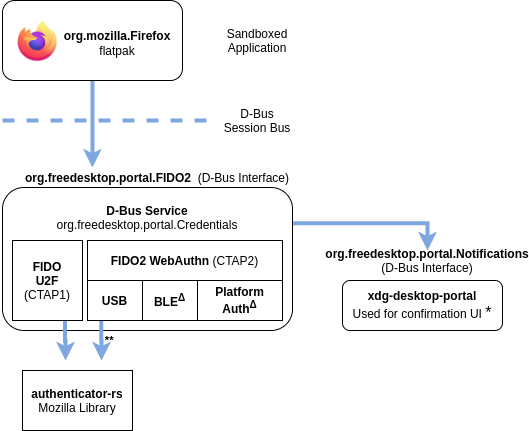
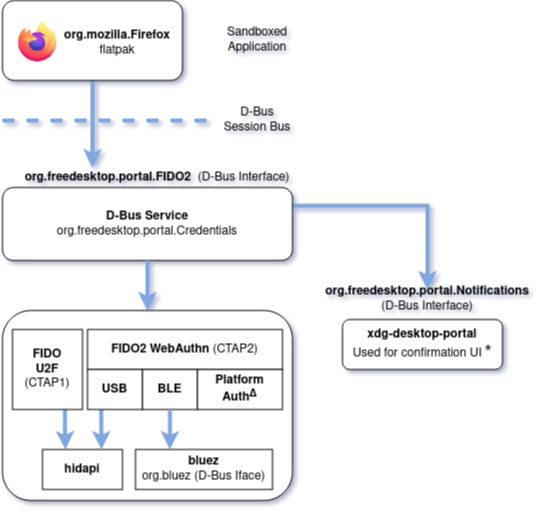
Updated README

Changed region(s): [[0.0, 0.0, 0.9981, 1.0], [0.4234, 0.0302, 0.5444, 0.1206]]

diff --git a/README.md b/README.md
@@ -2,21 +2,62 @@
 
 ![](https://media.giphy.com/media/Jo6ye8NvYF2Z2Odb5b/giphy.gif)
 
-This is a standalone service which aims to offer FIDO2 functionality (FIDO U2F, and WebAuthn) over a [D-Bus Portal interface][xdg-portal].
+This is a standalone service which aims to offer FIDO2 platform functionality (FIDO U2F, and WebAuthn) on Linux, over a [D-Bus Portal interface][xdg-portal].
 
-Similarly to [xdg-desktop-portal][xdg-desktop-portal] and [xdg-documents-portal][xdg-documents-portal], the service is intended to be accessed over a proposed D-Bus _portal_: [org.freedesktop.portal.Credentials][xml-spec].
+The project is composed of multiple crates:
 
-## High-level Architecture
+- **libwebauthn**: Linux native implementation of FIDO2 and FIDO U2F Platform APIs.
+  - Fully written in Rust.
+  - No longer relies on Mozilla's [authenticator-rs][authenticator-rs].
+  - Supporting multiple transports (currently USB HID and BLE). The library is designed to have pluggable transport implementations, making it easy to add transport backends (planned: NFC, caBLEv2).
+- **xdg-credentials-portal**: API proposal and reference implementation for a service which will expose FIDO2 and FIDO U2F Platform APIs via a D-Bus interface, for desktop applications to use - including conteinerized apps such as Flatpaks.
+  - Similarly to [xdg-desktop-portal][xdg-desktop-portal] and [xdg-documents-portal][xdg-documents-portal], the service is intended to be accessed over a proposed D-Bus _portal_: [org.freedesktop.portal.Credentials][xml-spec].
+
+## libwebauthn
+
+### Transports
+
+|                      | USB (HID)                 | Bluetooth Low Energy (BLE) | NFC                   | TPM 2.0 (Platform)    |
+| -------------------- | ------------------------- | -------------------------- | --------------------- | --------------------- |
+| **FIDO U2F**         | 🟢 Supported (via hidapi) | 🟢 Supported (via bluez)   | 🟠 Planned ([#5](#5)) | 🟠 Planned ([#4][#4]) |
+| **WebAuthn (FIDO2)** | 🟢 Supported (via hidapi) | 🟢 Supported (via bluez)   | 🟠 Planned ([#5](#5)) | 🟠 Planned ([#4][#4]) |
+
+### Platform functionality
+
+- FIDO U2F
+  - 🟢 Implemented: Registration (U2F_REGISTER)
+  - 🟢 Implemented: Authentication (U2F_AUTHENTICATE)
+  - 🟢 Implemented: Version (U2F_VERSION)
+- FIDO2
+  - 🟢 Implemented: Create credential
+  - 🟢 Implemented: Verify assertion
+  - 🟠 Planned ([#17][#17]): Resident keys
+  - 🟠 Planned ([#18][#18]): Biometric authentication
+- FIDO2 to FIDO U2F downgrade
+  - 🟢 Implemented: Basic functionality
+  - 🟠 Planned ([#9][#9]): Support for excludeList and pre-flight requests
+- PIN/UV Protocols
+  - 🟢 Implemented: PIN/UV Auth Protocol One
+  - 🟠 Planned ([#12][#12]): PIN/UV Auth Protocol Two
+- PIN/UV Operations
+  - 🟢 Implemented: GetPinToken
+  * 🟠 Planned ([#19][#19]): GetPinUvAuthTokenUsingUvWithPermissions
+  * 🟠 Planned ([#20][#20]): GetPinUvAuthTokenUsingPinWithPermissions
+
+## xdg-credential-platform
+
+This is a very early stage idea, no proposed spec exists yet.
+
+Here is an high-level architecture diagram of the proposed service and how it will interact with its clients:
 
 ![High-Level Architecture](./images/diagram-1.png)
 
 Footnotes:
 
-- **\***: Better alternatives for UI should be considered
-- **\*\***: CTAP2 support in authenticator-rs is under active development
+- **\***: Better alternatives for UI should be considered, e.g. native UI implementations via xdg-credentials-portal-{gnome, kde}.
 - **Δ**: See Roadmap section below
 
-## Motivation
+### Motivation
 
 - **Sandboxed Browsers**. A modern solutions is required to allow sandboxed applications (Flatpaks, Snaps) to access U2F and FIDO2 devices, without granting blanket access to all devices.
 
@@ -24,7 +65,7 @@ Footnotes:
 
 - **Passwordless Authentication**. FIDO2/WebAuthn brings the promise of a world without passwords, and related security incidents, which is worth pursuing. A platform API would make it easier for applications to support stronger authentication.
 
-- **Platform Authenticators** are an important part of the FIDO2 specification, and fundamental for widespread adoption of passwordless authentication. Windows Hello, [Android's FIDO2 support][fido-android], Apple's TouchID and FaceID, are all examples of platform authenticators. There is no reason why the Linux desktop community could not enjoy similar benefits.
+- **Platform Authenticators** are an important part of the FIDO2 specification, and fundamental for widespread adoption of passwordless authentication. Windows Hello, [Android's FIDO2 support][fido-android], Apple's TouchID and FaceID, are all examples of platform authenticators. There is no reason why the Linux desktop community could not enjoy similar benefits
 
   - [Passwordless Web Authentication Support via Windows Hello - Mozilla Security Blog][firefox-hello]
   - [Your Google Android 7+ Phone Is Now a FIDO2 Security Key - Fido Alliance][fido-android]
@@ -32,20 +73,7 @@ Footnotes:
 - **Native Apps FIDO2 Support**. FIDO2 should not be segregated to web applications.
   - [FIDO2 API for Android][fido-android-api] (native apps)
 
-## Status & Contributing
-
-**The API design and implementation are in progress.** See roadmap below. Contributions are welcome.
-
-**This is still a work-in-progress proposal**, and any contributions are very welcome. Please reach out if you have expertise and/or advice on the following:
-
-- D-Bus Portal API design
-- Proposal and contribution processes (Flatpak, GNOME, etc.)
-- Rust reference implementation
-- Any of the technical areas covered in the 'Roadmap' section below
-- UI Development
-- UX
-
-## Similar APIs and references
+### Other platforms
 
 Here is a list of related APIs available on other platforms, which offer similar functionality:
 
@@ -62,30 +90,11 @@ Further references:
     - [CTAP 2.1 Review Draft][ctap21]
   - [W3C - Web Authentication API][webauthn]
 
+## Contributing
 
-## Backend status
+If you'd like to contribute but you don't know where to start, take a look at available tasks in the _Issues_ tab.
 
-|                       | USB (HID)                             | Bluetooth LE                             | NFC                 | TPM 2.0 (Platform) |
-|-----------------------|---------------------------------------|------------------------------------------|---------------------|--------------------|
-| **FIDO U2F**          | Supported (via authenticator-rs)      | Supported                                |  Planned ([#5](#5)  | Planned ([#4][#4]) |
-| **WebAuthn (FIDO2)**  | In development ([#10][#10])           | In development ([#10][#10], [#10][#3])   |  Planned ([#5](#5)  | Planned ([#4][#4]) |
-
-## Roadmap
-
-
-
-**Backend support**:
-
-- **FIDO U2F (CTAP1)**
-  - **USB** via [authenticator-rs][authenticator-rs]
-  - **Bluetooth Low Energy (BLE)** via Blue-Z D-Bus APIs
-
-- **FIDO2 WebAuthn (CTAP2)**
-  - **USB** via [authenticator-rs][authenticator-rs] (initially by downgrading to CTAP1, CTAP2 functionality is under development in the [ctap2][authenticator-rs-ctap2] branch)
-  - **Bluetooth Low Energy (BLE)** via Blue-Z D-Bus APIs
-  - NFC
-
-**Further investigation is needed into:**
+Alternatively, any investigation or expertise on the following would be very helpful. Please reach out!
 
 - **Platform Authenticator support**. Similarly to Android devices, and Windows Hello. In order to implement this (and request FIDO2 certification), support for the following is needed:
 
@@ -98,7 +107,11 @@ Further references:
 
 - **PAM, and passwordless login** (long-term goal). A PAM module would allow using FIDO2 for user login purposes, e.g. using the platform authenticator (similar to Windows Hello).
 
-- **Draft Credentials Portal API**
+- **D-Bus Portal API design**
+
+- **Proposal and contribution processes (Flatpak, GNOME, etc.)**
+
+- **UI/UX**
 
 [xdg-portal]: https://flatpak.github.io/xdg-desktop-portal/portal-docs.html
 [xdg-desktop-portal]: https://github.com/flatpak/xdg-desktop-portal
@@ -125,3 +138,9 @@ Further references:
 [#3]: https://github.com/AlfioEmanueleFresta/xdg-credentials-portal/issues/3
 [#4]: https://github.com/AlfioEmanueleFresta/xdg-credentials-portal/issues/4
 [#5]: https://github.com/AlfioEmanueleFresta/xdg-credentials-portal/issues/5
+[#9]: https://github.com/AlfioEmanueleFresta/xdg-credentials-portal/issues/9
+[#12]: https://github.com/AlfioEmanueleFresta/xdg-credentials-portal/issues/12
+[#17]: https://github.com/AlfioEmanueleFresta/xdg-credentials-portal/issues/17
+[#18]: https://github.com/AlfioEmanueleFresta/xdg-credentials-portal/issues/18
+[#19]: https://github.com/AlfioEmanueleFresta/xdg-credentials-portal/issues/19
+[#20]: https://github.com/AlfioEmanueleFresta/xdg-credentials-portal/issues/20
